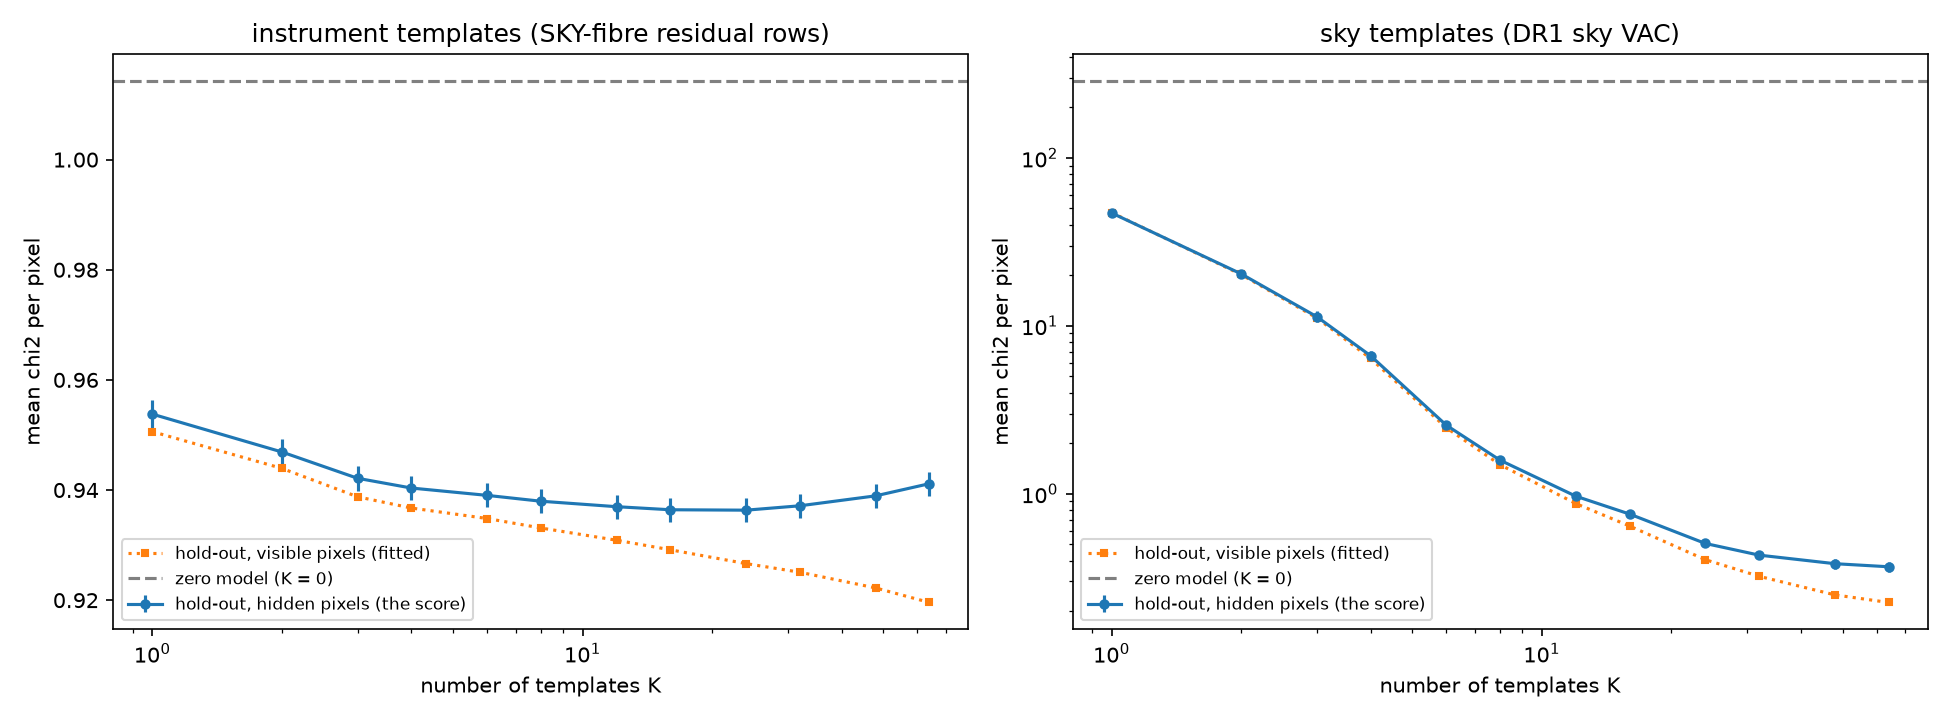
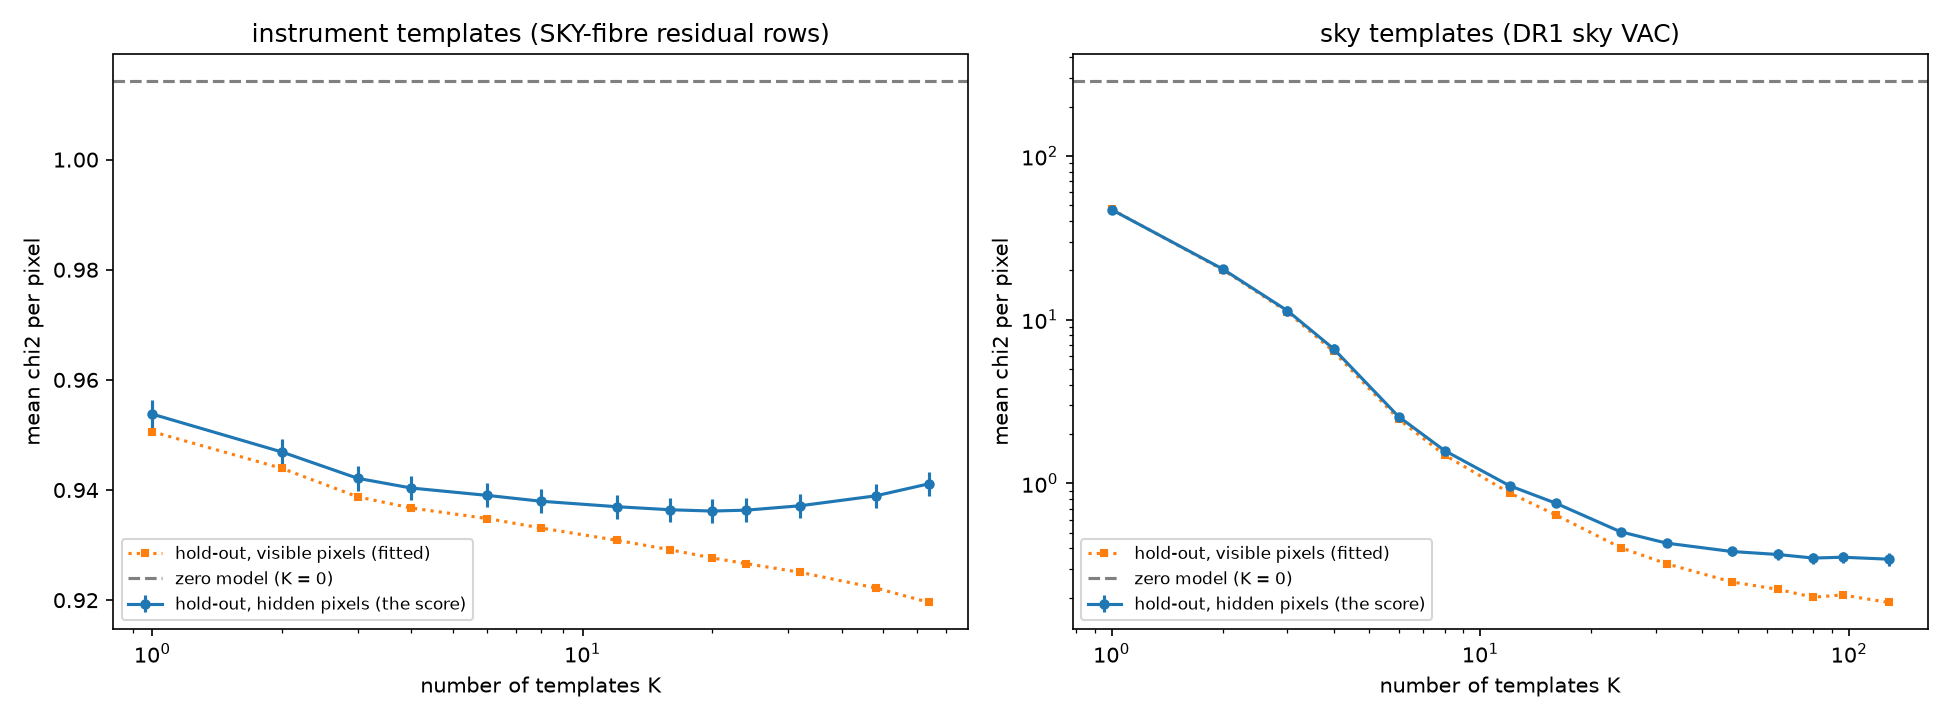
Templates: instrument K = 20 and sky K = 80, 96, 128; the sweep keeps earlier results
Instrument K = 20: hold-out hidden chi2 0.9362, on the plateau. Sky K = 80/96/128: 0.349 / 0.353 / 0.344, flat within the standard
error (about 0.03) from K = 48 while the in-sample chi2 keeps falling.

diff --git a/src/DESIFlow/templates/sky_instrument_sweep.py b/src/DESIFlow/templates/sky_instrument_sweep.py
@@ -98,7 +98,8 @@ def sweep(kind, out, ks=KS, steps=1500, batch=512, lr=3e-3, seed=0):
     G, O = to_gpu(f_tr, w_tr)
     GE, OE = to_gpu(np.load(os.path.join(d, "eval_flux.npy"), mmap_mode="r"), np.load(os.path.join(d, "eval_ivar.npy"), mmap_mode="r"))
     _log(f"{kind}: train {tuple(G.shape)}, eval {tuple(GE.shape)} on {dev}; pixel scale s from {s.min():.3g} to {s.max():.3g}")
-    summary = {}
+    spath = os.path.join(d, "summary.json")
+    summary = {int(k): v for k, v in json.load(open(spath)).items()} if os.path.exists(spath) else {}      # keep earlier K
     for K in ks:
         path = os.path.join(d, f"K{K:03d}.npz")
         t0 = time.time()
@@ -195,6 +196,7 @@ if __name__ == "__main__":
     ap.add_argument("--cache", default=None); ap.add_argument("--out", required=True)
     ap.add_argument("--fig", default=None); ap.add_argument("--figcache", default=None)
     ap.add_argument("--kinds", default="instrument,sky"); ap.add_argument("--steps", type=int, default=1500)
+    ap.add_argument("--ks", default=None, help="comma list of K for the sweep stage (default: the standard ladder)")
     a = ap.parse_args()
     kinds = a.kinds.split(",")
     if a.stage in ("prep", "all"):
@@ -204,6 +206,6 @@ if __name__ == "__main__":
             prep_sky(a.out)
     if a.stage in ("sweep", "all"):
         for k in kinds:
-            sweep(k, a.out, steps=a.steps)
+            sweep(k, a.out, ks=[int(x) for x in a.ks.split(",")] if a.ks else KS, steps=a.steps)
     if a.stage in ("figures", "all"):
         figures(a.out, a.fig, a.figcache)

diff --git a/docs/sky_instrument_templates.md b/docs/sky_instrument_templates.md
@@ -37,21 +37,28 @@
 | 8 | 0.9380 | 1.58 |
 | 12 | 0.9370 | 0.966 |
 | 16 | 0.9364 | 0.756 |
+| 20 | 0.9362 | (not run) |
 | 24 | 0.9363 | 0.505 |
 | 32 | 0.9371 | 0.431 |
 | 48 | 0.9389 | 0.383 |
 | 64 | 0.9412 | 0.367 |
+| 80 | (not run) | 0.349 |
+| 96 | (not run) | 0.353 |
+| 128 | (not run) | 0.344 |
 
-Standard errors: 0.002 (instrument), 0.02-1 (sky, larger at small K).
+Standard errors: 0.002 (instrument), 0.02-1 (sky, larger at small K); the K ladder was extended on request (instrument K = 20, sky K = 80, 96, 128).
 
 * Instrument: 6% of the 7.7% total gain comes from the first template; the curve is flat within the errors from K = 12 to 32 and
   rises beyond K = 32 while the in-sample (visible-pixel) chi2 keeps falling (0.9196 at K = 64): overfitting.
+* Instrument K = 20 (added on request) lies on the plateau, 0.9362 +- 0.0022.
+* Sky K = 80, 96 and 128 were added on request: the hold-out chi2 is flat from K = 48 (0.383) to 128 (0.344) within the standard error of
+  about 0.03, while the in-sample chi2 keeps falling (0.187 at K = 128), so templates beyond about 48 are overfitting.
 * Sky: the chi2 reaches 1 (the assumed 3% accuracy) at K = 12 and keeps improving slowly; the hold-out value separates from the
   in-sample one above K = 24 (0.505 / 0.404 at K = 24, 0.367 / 0.225 at K = 64).
 
 ## Files (not in the repository; `RepoClone/Claude/cache/sky_templates/`)
 
-`instrument/K001.npz ... K064.npz` and `sky/K001.npz ... K064.npz`, each with `templates_whitened` (K, 7781), `templates_flux`
+`instrument/K001.npz ... K064.npz` (13 sets, including K020) and `sky/K001.npz ... K128.npz` (15 sets), each with `templates_whitened` (K, 7781), `templates_flux`
 (K, 7781), `pixel_scale_s`, `energy`, `wavelength_A`, the hold-out metrics, the per-row hold-out chi2 and the training-loss
 history; `summary.json` per kind; the prepared training and hold-out arrays; `run.sh`.
 
